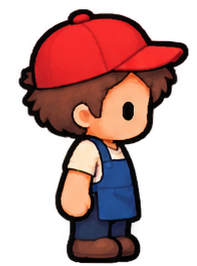
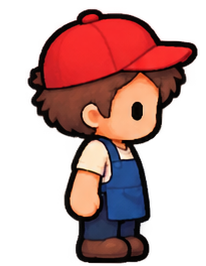
fix: preserve Unity sprite flips in profile walks

diff --git a/src/pages/Characters.css b/src/pages/Characters.css
@@ -8,7 +8,7 @@
 .character-role{font-size:10px;text-transform:uppercase;background:#d8b24c20;color:var(--gold);padding:5px 9px;border-radius:4px;letter-spacing:1px}
 .sprite-stage{height:275px;position:relative;display:flex;align-items:center;justify-content:center;touch-action:pan-y;cursor:grab;user-select:none}
 .sprite-stage:active{cursor:grabbing}
-.hero-sprite{position:relative;height:235px;width:235px;object-fit:contain;pointer-events:none;filter:drop-shadow(0 9px 8px #0004)}
+.hero-sprite{position:relative;top:-15px;height:235px;width:235px;object-fit:contain;pointer-events:none;filter:drop-shadow(0 9px 8px #0004)}
 .sprite-platform{position:absolute;bottom:10px;width:220px;height:55px;border-radius:50%;background:radial-gradient(ellipse,#d8b24c25,#d8b24c05);border:1px solid #d8b24c30}
 .turn-controls{display:flex;align-items:center;justify-content:center;gap:20px;font-size:13px}
 .turn-controls span{min-width:112px;text-align:center}
